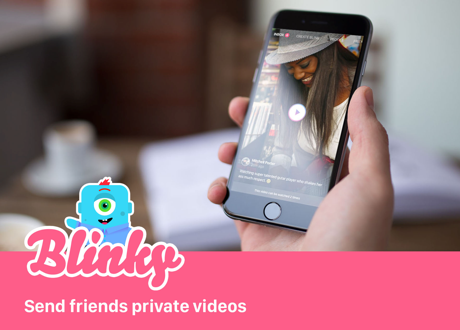
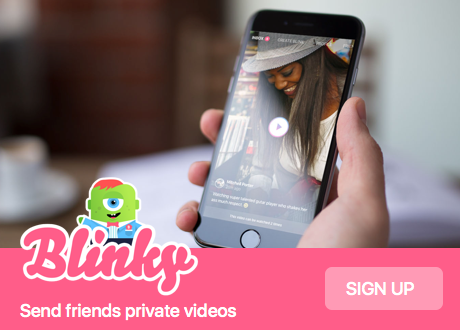
updated text and twittercard

diff --git a/index.html b/index.html
@@ -93,7 +93,7 @@
       					Share with Friends
       				</p>
       				<p>
-      					Invite friends to connect so they can see your awesome private videos.
+      					Create your private video, then invite friends to watch. We've made it really simple to invite all your friends ;)
       				</p>
             </div>
     			</div>
@@ -103,10 +103,10 @@
             </div>
             <div class="content-box">
               <p class="lead">
-      					Control Content
+      					Control your videos
       				</p>
       				<p>
-      					You’re in control of your videos, set limits on your videos to prevent anything bad from happening.
+      					You're in control of your videos, set all kinds of limits on your videos to keep them private or to auto delete.
       				</p>
             </div>
     			</div>

diff --git a/assets/css/style.css b/assets/css/style.css
@@ -1130,9 +1130,10 @@ header {
     header .overlay .content {
       z-index: 1; }
       header .overlay .content #logo {
-        margin: 0 auto 20px;
+        margin: 0 auto;
         cursor: pointer;
-        opacity: 0; }
+        opacity: 0;
+        width: 250px; }
         header .overlay .content #logo.animated {
           opacity: 1; }
       header .overlay .content h1,
@@ -1317,7 +1318,7 @@ main {
             opacity: 0.6; }
             main .container .highlights .highlight .content-box p.lead {
               font-size: 24px;
-              margin-bottom: 10px;
+              margin-bottom: 5px;
               opacity: 1; }
         main .container .highlights .highlight#deadEasy {
           top: 150px;

diff --git a/assets/css/2-layouts/_header.sass b/assets/css/2-layouts/_header.sass
@@ -35,9 +35,10 @@ header
       z-index: 1
 
       #logo
-        margin: 0 auto 20px
+        margin: 0 auto
         cursor: pointer
         opacity: 0
+        width: 250px
 
         &.animated
           opacity: 1

diff --git a/assets/css/2-layouts/_main.sass b/assets/css/2-layouts/_main.sass
@@ -54,7 +54,7 @@ main
 
             &.lead
               font-size: 24px
-              margin-bottom: 10px
+              margin-bottom: 5px
               opacity: 1
 
         &#deadEasy
